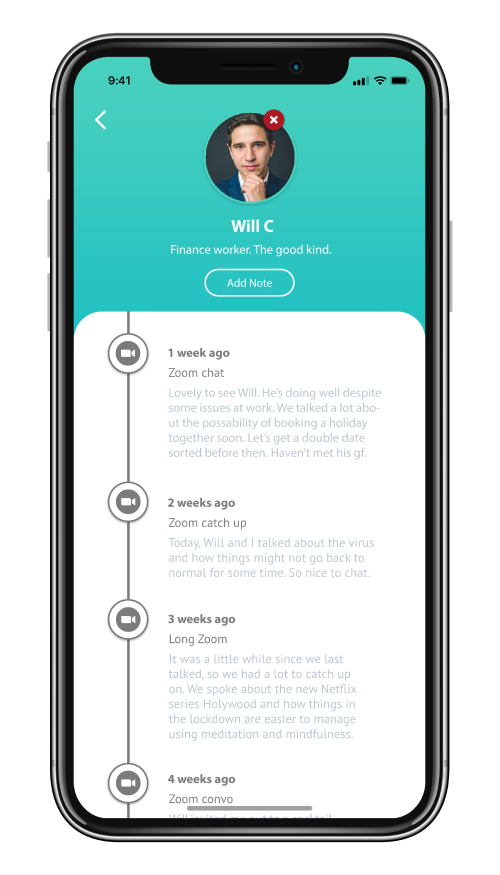
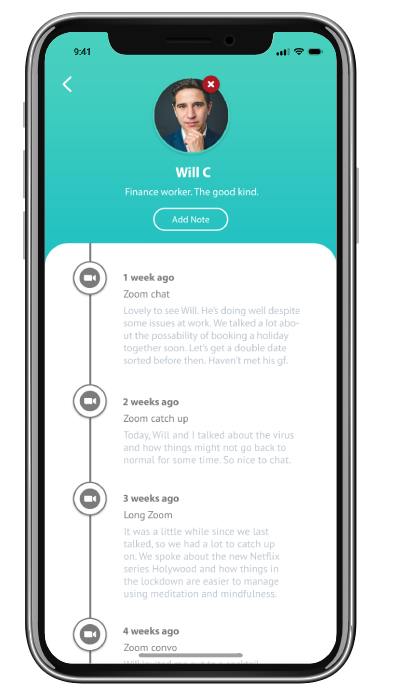
Resize iphone images

Changed region(s): [[0.06, 0.0, 0.93, 0.99], [0.72, 0.6, 0.75, 0.63]]

diff --git a/src/components/Home/CoreFeature.js b/src/components/Home/CoreFeature.js
@@ -72,10 +72,8 @@ const useStyles = makeStyles({
         },
     },
     iPhone: {
-        width: '400px',
-        height: '700px',
-        objectFit: 'contain',
         [theme.breakpoints.down('md')]: {
+            objectFit: 'contain',
             width: '600px',
             height: '600px',
             alignSelf: 'center',
